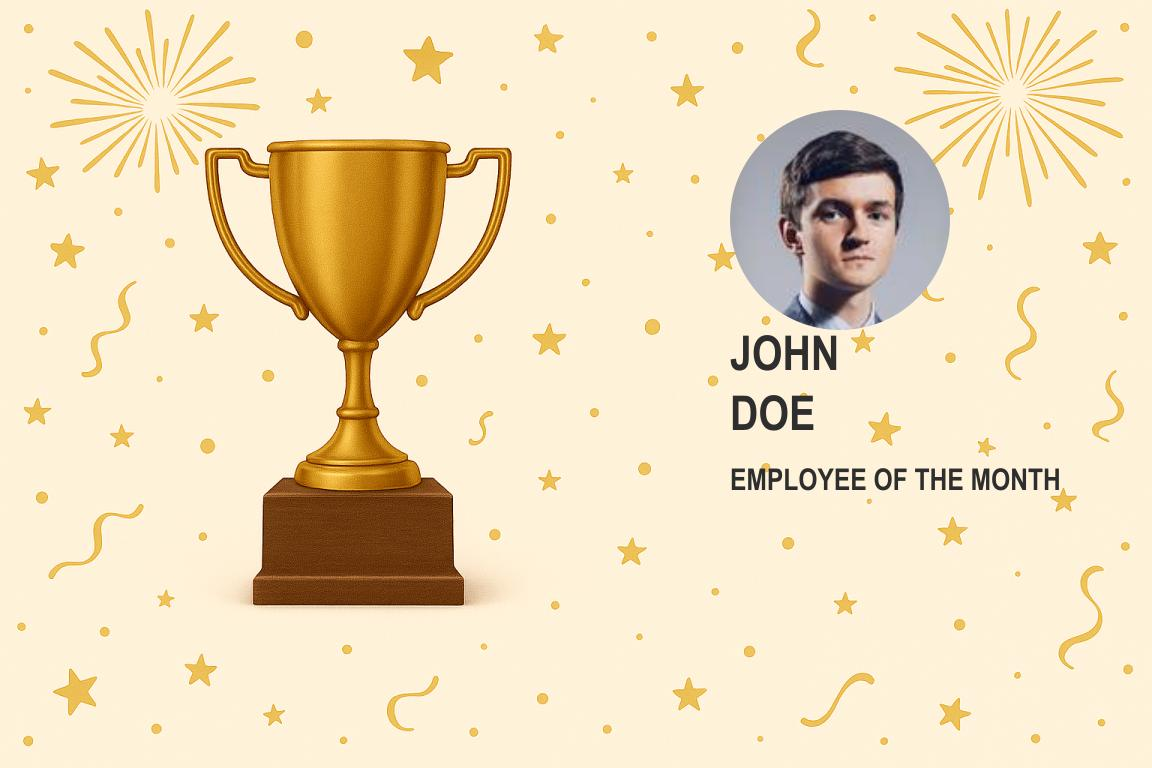
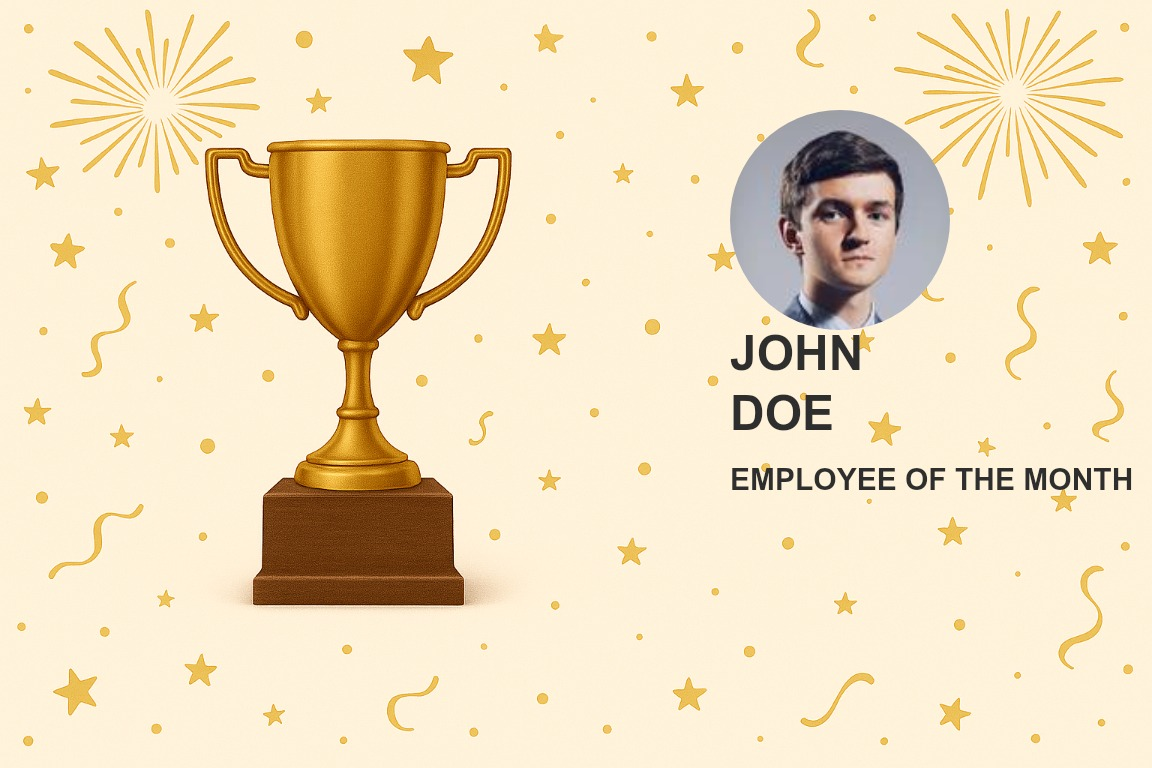
Final working image generator

Changed region(s): [[0.625, 0.5938, 1.0, 0.6562], [0.625, 0.4375, 0.75, 0.5625]]

diff --git a/netlify/functions/generate-image.js b/netlify/functions/generate-image.js
@@ -1,37 +1,43 @@
 const path = require('path');
 const { createCanvas, loadImage } = require('@napi-rs/canvas');
+const fs = require('fs');
 
 exports.handler = async (event) => {
-  // Initialize at the top so it's available in error handling
-  let bgPath;
-  const canvas = createCanvas(1152, 768);
-  const ctx = canvas.getContext('2d');
+  // ===== 1. BULLETPROOF PATH RESOLUTION =====
+  const isLocal = Boolean(process.env.NETLIFY_DEV);
+  const projectRoot = isLocal ? process.cwd() : '/var/task';
+  const bgPath = path.join(projectRoot, 'assets/award.png');
 
   try {
-    // ===== 1. PATH RESOLUTION =====
-    bgPath = path.join(
-      process.env.NETLIFY_DEV ? __dirname : '/var/task',
-      'assets/award.png'  // Simplified path
-    );
+    // Debug logging
+    console.log(`Loading background from: ${bgPath}`);
+    if (isLocal && !fs.existsSync(bgPath)) {
+      throw new Error(`Local file not found. Current directory: ${process.cwd()}\n` +
+        `Assets folder contents: ${fs.readdirSync(path.join(projectRoot, 'assets'))}`);
+    }
 
-    console.log('Loading background from:', bgPath);
-    
-    // ===== 2. LOAD ASSETS =====
+    // ===== 2. IMAGE GENERATION =====
+    const canvas = createCanvas(1152, 768);
+    const ctx = canvas.getContext('2d');
+
+    // Load background
     const bg = await loadImage(bgPath);
     ctx.drawImage(bg, 0, 0, 1152, 768);
 
-    // ===== 3. PROFILE PHOTO =====
+    // Add profile photo (with fallback)
     if (event.queryStringParameters?.photo) {
       try {
-        const photoImg = await loadImage(event.queryStringParameters.photo);
+        const photo = await loadImage(event.queryStringParameters.photo);
         // Circular mask (x=730, y=110, diameter=220)
+        ctx.save();
         ctx.beginPath();
         ctx.arc(840, 220, 110, 0, Math.PI * 2);
         ctx.closePath();
         ctx.clip();
-        ctx.drawImage(photoImg, 730, 110, 220, 220);
+        ctx.drawImage(photo, 730, 110, 220, 220);
+        ctx.restore();
       } catch (e) {
-        console.log("Using fallback circle");
+        console.log('Using fallback circle');
         ctx.fillStyle = '#CCCCCC';
         ctx.beginPath();
         ctx.arc(840, 220, 110, 0, Math.PI * 2);
@@ -39,24 +45,28 @@ exports.handler = async (event) => {
       }
     }
 
-    // ===== 4. RENDER TEXT =====
+    // Add text
     ctx.fillStyle = '#2E2E2E';
     ctx.textAlign = 'left';
     ctx.font = 'bold 48px Arial';
-    
+
     if (event.queryStringParameters?.first) {
       ctx.fillText(event.queryStringParameters.first.toUpperCase(), 730, 370);
     }
     if (event.queryStringParameters?.last) {
       ctx.fillText(event.queryStringParameters.last.toUpperCase(), 730, 430);
     }
+    if (event.queryStringParameters?.recognition) {
+      ctx.font = 'bold 30px Arial';
+      ctx.fillText(event.queryStringParameters.recognition.toUpperCase(), 730, 490);
+    }
 
-    // ===== 5. RETURN IMAGE =====
+    // ===== 3. RETURN IMAGE =====
     return {
       statusCode: 200,
       headers: { 
         'Content-Type': 'image/jpeg',
-        'Cache-Control': 'public, max-age=86400'
+        'Cache-Control': 'public, max-age=86400' // 24-hour cache
       },
       body: canvas.toBuffer('image/jpeg').toString('base64'),
       isBase64Encoded: true
@@ -67,9 +77,13 @@ exports.handler = async (event) => {
       statusCode: 500,
       body: JSON.stringify({
         error: error.message,
-        attemptedBackgroundPath: bgPath || 'Not defined',
-        environment: process.env.NETLIFY_DEV ? 'Development' : 'Production'
-      })
+        debugInfo: {
+          attemptedPath: bgPath,
+          isLocal: isLocal,
+          projectRoot: projectRoot,
+          directoryContents: isLocal ? fs.readdirSync(projectRoot) : 'Not available in production'
+        }
+      }, null, 2) // Pretty-print JSON
     };
   }
 };
